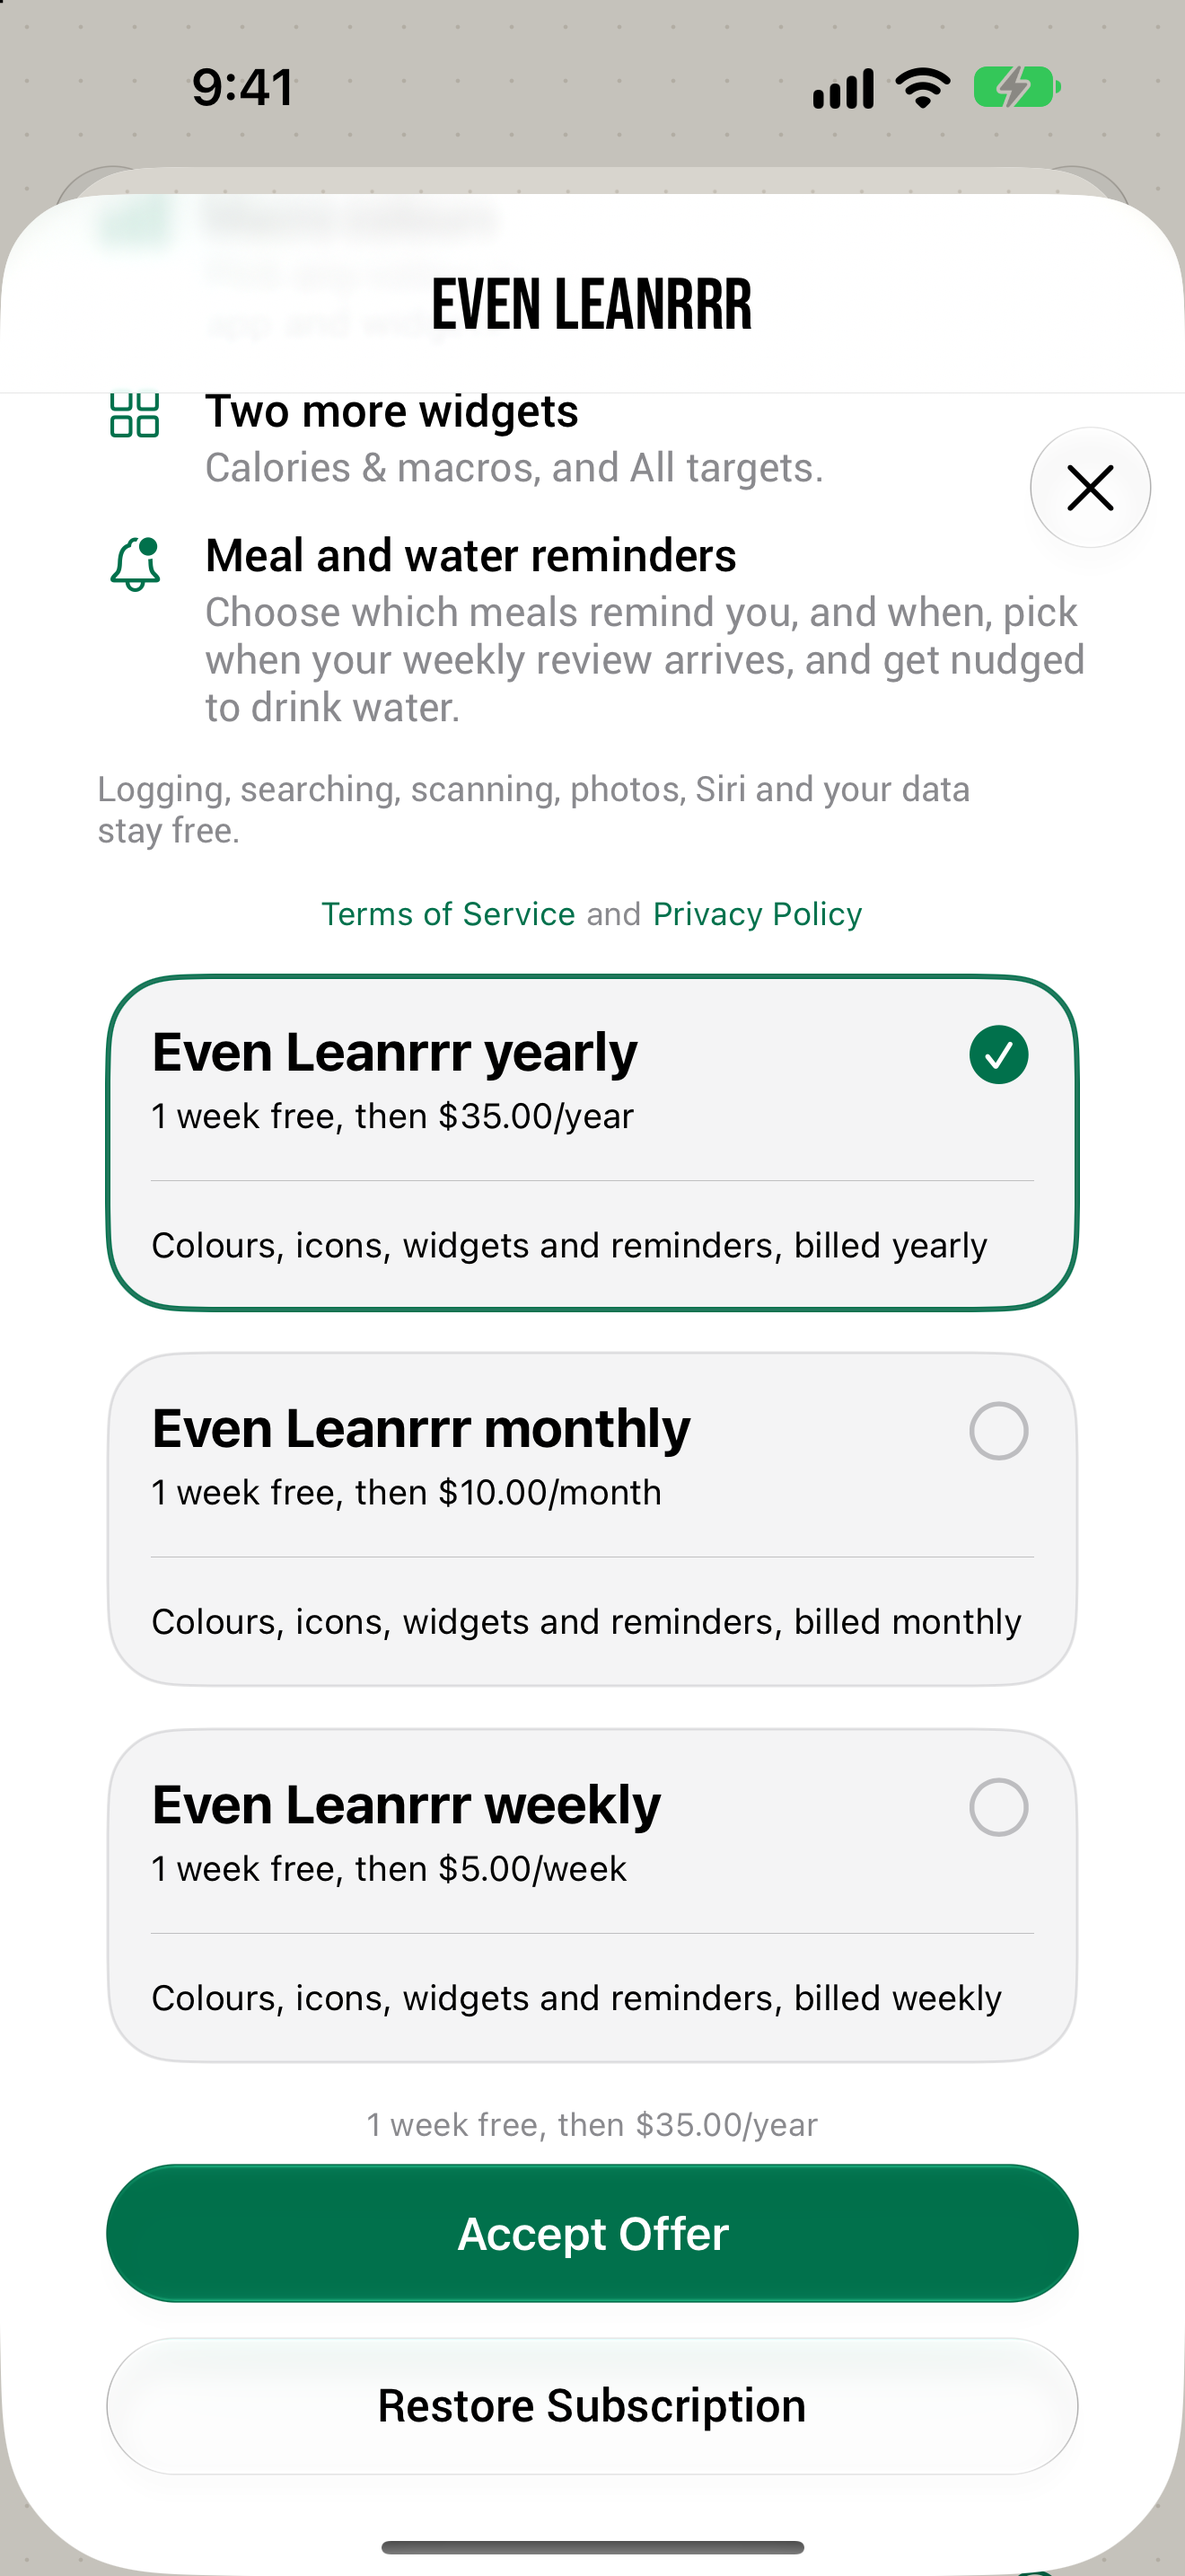
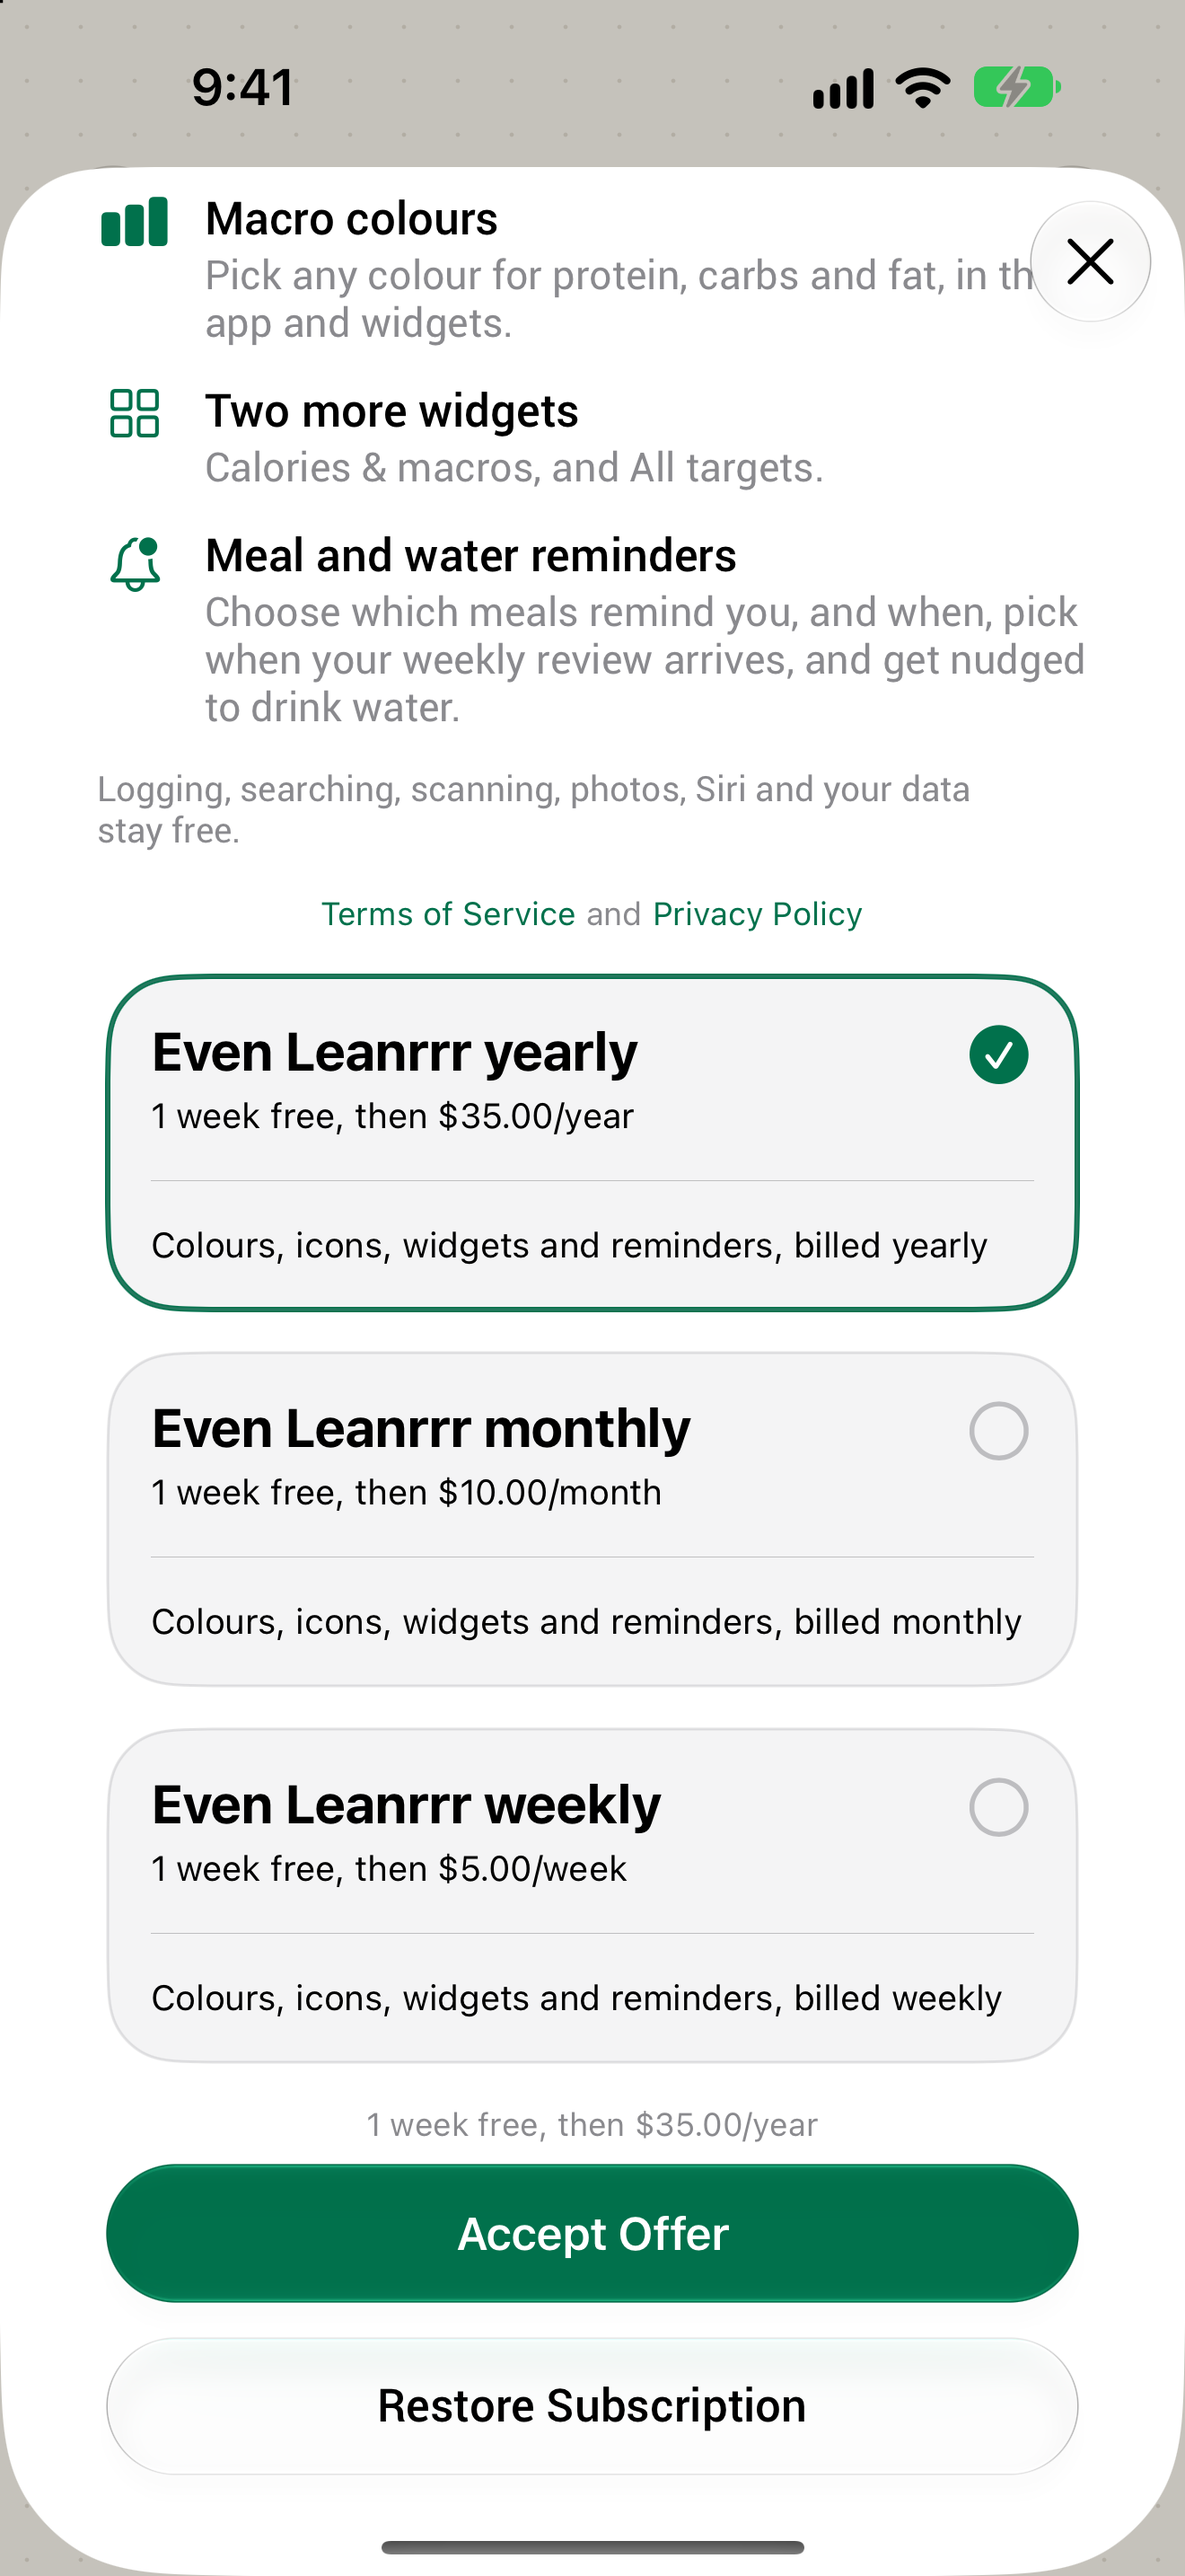
Show the Even Leanrrr title once on the store screen
Hide the navigation bar on the store so only its own heading shows, and retake the subscription review screenshot.

diff --git a/ios/MacroMenu/PremiumView.swift b/ios/MacroMenu/PremiumView.swift
@@ -22,12 +22,15 @@ struct PremiumView: View {
 
     var body: some View {
         NavigationStack {
-            Group {
-                if purchases.isUnlocked { subscribed } else { store }
+            if purchases.isUnlocked {
+                subscribed
+                    .navigationTitle("Even Leanrrr").navigationBarTitleDisplayMode(.inline)
+                    .toolbar { ToolbarItem(placement: .cancellationAction) { Button("Done") { dismiss() } } }
+            } else {
+                // The store's own heading says "Even Leanrrr" and Apple's view brings its own close button,
+                // so a navigation bar here would only repeat the title.
+                store.toolbar(.hidden, for: .navigationBar)
             }
-            .navigationTitle("Even Leanrrr").navigationBarTitleDisplayMode(.inline)
-            // Apple's subscription view brings its own close button; the subscribed screen needs ours.
-            .toolbar { if purchases.isUnlocked { ToolbarItem(placement: .cancellationAction) { Button("Done") { dismiss() } } } }
         }
     }
 
